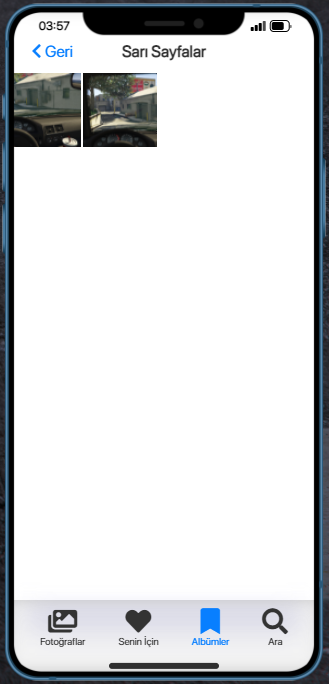
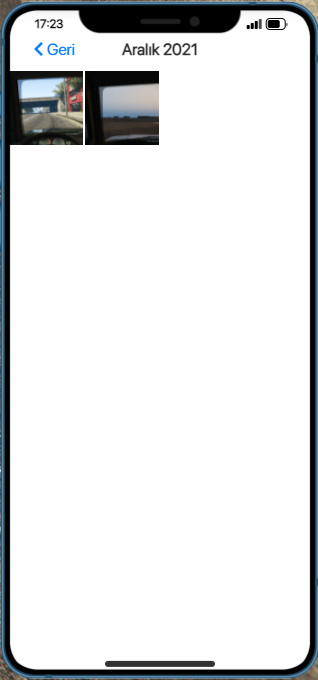
fixed photos periods, added album viewer to year and month views, added search page to photos app works with location, albums, date or photo link

Changed region(s): [[0.0, 0.0, 1.0, 1.0]]

diff --git a/html/js/photos.js b/html/js/photos.js
@@ -38,8 +38,6 @@ $('.photos-footer-button').click(function() {
     var current = $('.photos-footer-button-selected').attr('data-page');
     var target = $(this).attr('data-page');
 
-    console.log("current, target:", current, target);
-
     if (current === target || target == null) {
         return;
     }
@@ -116,37 +114,54 @@ function SetupPhotos(_) {
                 break;
                 
             case "year":
-                titleDate = `${dateObj.getFullYear()}-${dateObj.getMonth()}`;
-
+                titleDate = dateObj.getFullYear();
+                
                 if (!titleDates.includes(titleDate)) {
                     var photoChild = $('<div/>', {
                         class: 'photos-image-item',
                         html: `
-                            <span>${dateObj.getFullYear()}</span>
-                            <img class="zoomable-image" src='${photo.url}'></img>`
+                        <span>${dateObj.getFullYear()}</span>
+                        <img src='${photo.url}'></img>`
                     }).data('data', photo.data);
-
-                    $(photoChild).find('.zoomable-image').data('id', photo.id);
+                    
+                    var imgElement = $(photoChild).find('img').data('id', photo.id);
+                    
+                    $(imgElement).click(function() {
+                        var title = dateObj.getFullYear();
+                        var filteredPhotos = Photos.filter(x => new Date(x.created_at).getFullYear() == dateObj.getFullYear());
+                        OpenAlbum(title, filteredPhotos);
+                    });
+                    
                     $(photoChild).appendTo('.photos-app-page[data-page="photos"]  .photos-content');
                 }
                 break;
-
+                
             case "month":
-                titleDate = dateObj.getFullYear();
+                titleDate = `${dateObj.getFullYear()}-${dateObj.getMonth()}`;
                 includeDate = titleDates.includes(titleDate) ? "none" : "block";
                 
                 var photoChild = $('<div/>', {
                     class: 'photos-image-item',
                     html: `
                         <span style="display: ${includeDate}" class="photo-img-title">${Months["long"][dateObj.getMonth()]} ${dateObj.getFullYear()} <i class="fas fa-chevron-right"></i></span>
-                        <img class="zoomable-image" src='${photo.url}'></img>
+                        <img src='${photo.url}'></img>
                         <div class="${includeDate == "block" ? "photo-img-details-date-included" : "photo-img-details"}">
                             <span style="display: ${photo.data.location == undefined ? "none" : "block"}" class="photo-img-details-text">${photo.data.location}</span>
                             <span class="photo-img-details-date">${Months["short"][dateObj.getMonth()]} ${dateObj.getDay()}</span>
                         </div>`
                 }).data('data', photo.data);
                 
-                $(photoChild).find('.zoomable-image').data('id', photo.id);
+                var imgElement = $(photoChild).find('img').data('id', photo.id);
+
+                $(imgElement).click(function() {
+                    var title = `${Months["long"][dateObj.getMonth()]} ${dateObj.getFullYear()}`;
+                    var filteredPhotos = Photos.filter(x => {
+                        var date = new Date(x.created_at);
+                        return date.getFullYear() == dateObj.getFullYear() && date.getMonth() == dateObj.getMonth();
+                    });
+                    OpenAlbum(title, filteredPhotos);
+                });
+
                 $(photoChild).appendTo('.photos-app-page[data-page="photos"]  .photos-content');
                 break;
 
@@ -164,7 +179,6 @@ function SetupAlbums() {
     var albums = {};
 
     Photos.forEach(photo => {
-        console.log(photo);
         if (photo.data.albums.length === 0) {
             return;
         }
@@ -195,26 +209,60 @@ function SetupAlbums() {
 
         $(photoChild).click(function() {
             var album = $(this).prop('data-album');
-            var albumPhotos = Photos.filter(photo =>photo.data.albums.includes(album));
-            $('.photos-app-page[data-page="albums"] .photos-content').empty();
-
-            albumPhotos.forEach(photo => {
-                littleImage = $('<div/>', {
-                    class: 'photos-image-item',
-                    html: `
-                    <img class="zoomable-image" src='${photo.url}'></img>`
-                }).data('data', photo.data);
-                
-                $(littleImage).find('.zoomable-image').data('id', photo.id);
-                $('#album-name').text(album);
-                $(littleImage).appendTo('.photos-app-page[data-page="albums"] .photos-content');
-            });
-            
-            NM.Phone.Animations.SlideLeft('.photos-album-content-container', 250, 0);
+            var albumPhotos = Photos.filter(photo => photo.data.albums.includes(album));
+            OpenAlbum(album, albumPhotos);
         });
     }
 }
 
+function OpenAlbum(title, images) {
+    $('.photos-album-content-inside').empty();
+    $('#album-name').text(title);
+
+    images.forEach(photo => {
+        littleImage = $('<div/>', {
+            class: 'photos-image-item',
+            html: `
+            <img class="zoomable-image" src='${photo.url}'></img>`
+        }).data('data', photo.data);
+        
+        $(littleImage).find('.zoomable-image').data('id', photo.id);
+        $(littleImage).appendTo('.photos-album-content-inside');
+    });
+    
+    NM.Phone.Animations.SlideLeft('.photos-album-content-container', 250, 0);
+}
+
 $('#cancel-album-container').click(function() {
     NM.Phone.Animations.SlideRight('.photos-album-content-container', 250, -100);
+});
+
+$('.photos-search-bar .fa-times-circle').click(function() {
+    $('#photos-search-bar-input').val('');
+    $('.photos-app-page[data-page="search"] .photos-content').empty();
+});
+
+$('#photos-search-bar-input').keyup(function(e) {
+    $('.photos-app-page[data-page="search"] .photos-content').empty();
+
+    if ($(this).val().length < 3) {
+        return;
+    }
+
+    var match = $(this).val().toLowerCase();
+    var options =  {weekday: 'long', year: 'numeric', 'month': 'long', day: 'numeric'};
+
+    Photos.filter(x => x.url.toLowerCase().includes(match) ||
+                  x.data.albums.toLocaleString().toLowerCase().includes(match) ||
+                  x.data.location.toLowerCase().includes(match) ||
+                  new Date(x.created_at).toLocaleDateString('tr-TR', options).toLowerCase().includes(match)).forEach(photo => {
+        photoChild = $('<div/>', {
+            class: 'photos-image-item',
+            html: `
+                <img class="zoomable-image" src='${photo.url}'></img>`
+        }).data('data', photo.data);
+        
+        $(photoChild).find('.zoomable-image').data('id', photo.id);
+        $(photoChild).appendTo('.photos-app-page[data-page="search"] .photos-content');
+    });
 });

diff --git a/html/index.html b/html/index.html
@@ -1684,13 +1684,22 @@
                                         <img src="https://imgcy.trivago.com/c_limit,d_dummy.jpeg,f_auto,h_1300,q_auto,w_2000/itemimages/86/71/867186_v2.jpeg" alt="">
                                     </div> -->
                                 </div>
-                                <div class="photos-album-content-container">
-                                    <div id="photos-album-content-header" class="global-app-header" style="top: 8px; margin-bottom: 8px;">
-                                        <p id="cancel-album-container" class="blue-text"><i class="fas fa-chevron-left"></i> Geri</p>
-                                        <p id="album-name">Album Name</p>
-                                    </div>
-                                    <div class="photos-album-content-inside photos-content" data-showing="all">
-                                    </div>
+                            </div>
+                            <div class="photos-album-content-container">
+                                <div id="photos-album-content-header" class="global-app-header" style="top: 8px; margin-bottom: 8px;">
+                                    <p id="cancel-album-container" class="blue-text"><i class="fas fa-chevron-left"></i> Geri</p>
+                                    <p id="album-name">Album Name</p>
+                                </div>
+                                <div class="photos-album-content-inside photos-content" data-showing="all">
+                                </div>
+                            </div>
+                            <div class="photos-app-page" data-page="search">
+                                <div class="photos-search-bar">
+                                    <i class="fas fa-search"></i>
+                                    <textarea id="photos-search-bar-input" placeholder="Konum, albüm veya tarih" spellcheck="false"></textarea>
+                                    <i class="fas fa-times-circle"></i>
+                                </div>
+                                <div class="photos-content" data-showing="all">
                                 </div>
                             </div>
                             <div class="photos-footer">
@@ -1706,7 +1715,7 @@
                                     <i class="fas fa-bookmark"></i>
                                     <p>Albümler</p>
                                 </div>
-                                <div class="photos-footer-button">
+                                <div class="photos-footer-button" data-page="search">
                                     <i class="fas fa-search"></i>
                                     <p>Ara</p>
                                 </div>

diff --git a/html/css/photos.css b/html/css/photos.css
@@ -70,6 +70,7 @@
     font-size: 32px;
     letter-spacing: 2px;
     text-shadow: 2px 2px 4px var(--main-black);
+    pointer-events: none;
 }
 .photos-content[data-showing="year"] .photos-image-item img {
     border-radius: 16px;
@@ -101,6 +102,7 @@
     text-shadow: 1px 1px 2px var(--main-color);
     color: var(--main-background-color);
     font-size: 24px;
+    pointer-events: none;
 }
 .photos-content[data-showing="month"] .photo-img-details {
     position: absolute;
@@ -111,10 +113,12 @@
     text-shadow: 1px 1px 2px var(--main-color);
     color: var(--main-background-color);
     font-size: 24px;
+    pointer-events: none;
 }
 .photos-content[data-showing="month"] .photo-img-details-date {
     font-size: 16px;
     font-weight: 100;
+    pointer-events: none;
 }
 
 .photos-content[data-showing="day"] {
@@ -124,8 +128,13 @@
     gap: 4px;
 }
 
+.photos-content[data-showing="day"] .photos-image-item {
+    position: relative;
+}
+
 .photos-content[data-showing="day"] .photos-image-item span {
     position: absolute;
+    top: 0;
     color: white;
     text-shadow: 1px 1px 2px black;
     margin: 16px;
@@ -251,14 +260,49 @@
 
 .photos-album-content-container {
     position: absolute;
+    padding: 32px 6px 108px;
+    top: 0px;
     overflow: hidden;
     background: var(--main-background-color);
     width: 100%;
     height: 100%;
     right: -100%;
+    x-index: 70|
 }
 
 #photos-album-content-header {
     top: 0;
     margin: -6px 0 0 0;
+}
+
+.photos-search-bar {
+    width: 100%;
+    display: flex;
+    align-items: center;
+    position: relative;
+    padding: 8px;
+}
+
+.photos-search-bar textarea {
+    background: lightgray;
+    height: 28px;
+    border: none;
+    border-radius: 8px;
+    width: 100%;
+    padding: 4px 20px 4px 20px;
+    font-size: 1.4vh;
+    outline: none;
+    resize: none;
+    overflow: hidden;
+}
+
+.photos-search-bar .fa-search {
+    position: absolute;
+    margin: 4px;
+    color: gray;
+}
+.photos-search-bar .fa-times-circle {
+    position: absolute;
+    text-align: right;
+    right: 16px;
 }

diff --git a/README.md b/README.md
@@ -51,6 +51,10 @@ end
 ![Photos](/readme/photos_2.png)
 ![Photos](/readme/photos_3.png)
 ![Photos](/readme/photos_4.png)
+![Photos](/readme/photos_5.png)
+![Photos](/readme/photos_6.png)
+![Photos](/readme/photos_7.png)
+![Photos](/readme/photos_8.png)
 -----
 ### Bank
 > Dependencies
